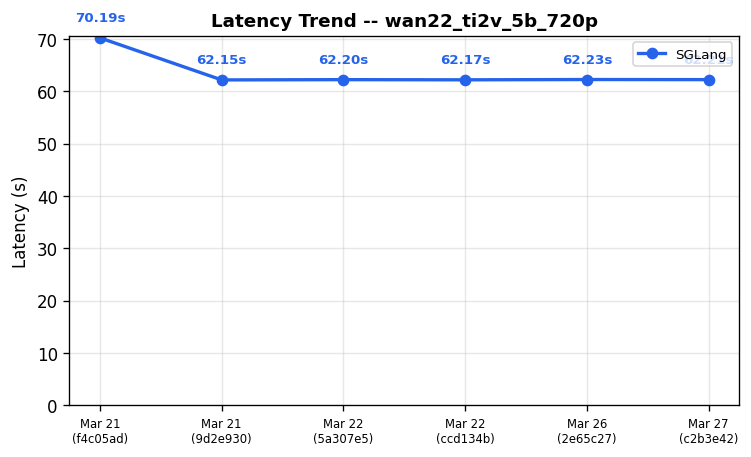
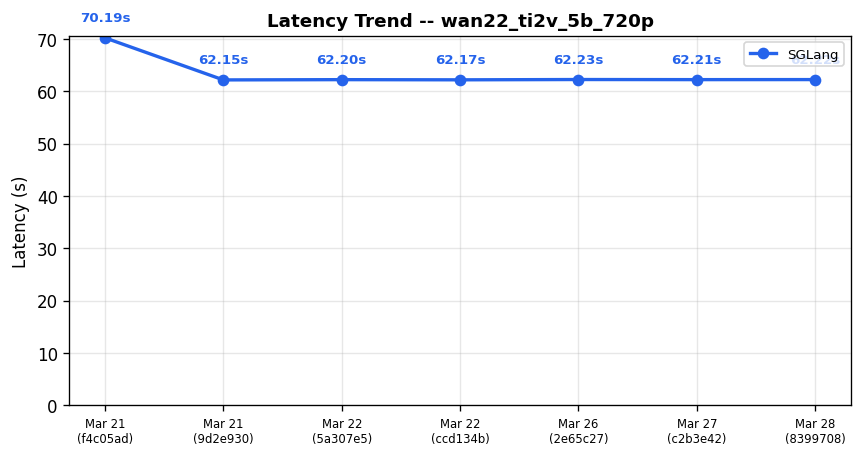
Diffusion comparison results for run 23673470172 (#528)

diff --git a/diffusion-comparisons/dashboard.md b/diffusion-comparisons/dashboard.md
@@ -1,32 +1,38 @@
 # Diffusion Cross-Framework Performance Dashboard
 
-*Generated: Mar 27 | Commit: `c2b3e42`*
+*Generated: Mar 28 | Commit: `8399708`*
+
+> [!WARNING]
+> **Performance Regression Detected**
+>
+> - **qwen_image_edit_2511** (sglang): 29.64s -> 31.67s (+6.9%)
+
 
 ## Cross-Framework Performance Comparison
 
 | Model | Risk | sglang (s) |
 |-------|------|---------|
-| FLUX.1-dev | ✅ | **6.70** |
-| FLUX.2-dev | ✅ | **22.94** |
-| Qwen-Image-2512 | ✅ | **13.18** |
-| Qwen-Image-Edit-2511 | ✅ | **29.64** |
+| FLUX.1-dev | ✅ | **6.68** |
+| FLUX.2-dev | ✅ | **22.76** |
+| Qwen-Image-2512 | ✅ | **13.71** |
+| Qwen-Image-Edit-2511 | ⚠ | **31.67** |
 | Z-Image-Turbo | ✅ | **0.93** |
-| Wan2.2-T2V-A14B-Diffusers | ✅ | **16.11** |
-| Wan2.2-TI2V-5B-Diffusers | ✅ | **62.21** |
+| Wan2.2-T2V-A14B-Diffusers | ✅ | **16.27** |
+| Wan2.2-TI2V-5B-Diffusers | ✅ | **62.22** |
 | Wan2.2-I2V-A14B-Diffusers | ✅ | **10.04** |
 
 ## SGLang Performance Trend (Last 7 Runs)
 
 | Date | Commit | flux1_dev_t2i_1024 (s) | flux2_dev_t2i_1024 (s) | qwen_image_2512_t2i_1024 (s) | qwen_image_edit_2511 (s) | zimage_turbo_t2i_1024 (s) | wan22_t2v_a14b_720p (s) | wan22_ti2v_5b_720p (s) | wan22_i2v_a14b_720p (s) | Trend |
 |------|--------|---------|---------|---------|---------|---------|---------|---------|---------|-------|
+| Mar 28 | `8399708` | 6.68 | 22.76 | 13.71 | 31.67 | 0.93 | 16.27 | 62.22 | 10.04 | :left_right_arrow:  :left_right_arrow:  :arrow_up:  :arrow_up:  :left_right_arrow:  :left_right_arrow:  :left_right_arrow:  :left_right_arrow: |
 | Mar 27 | `c2b3e42` | 6.70 | 22.94 | 13.18 | 29.64 | 0.93 | 16.11 | 62.21 | 10.04 | :left_right_arrow:  :left_right_arrow:  :left_right_arrow:  :left_right_arrow:  :left_right_arrow:  :left_right_arrow:  :left_right_arrow:  :left_right_arrow: |
 | Mar 26 | `2e65c27` | 6.77 | 22.75 | 13.31 | 29.84 | 0.94 | 16.06 | 62.23 | 10.04 | :left_right_arrow:  :left_right_arrow:  :arrow_down:  :left_right_arrow:  :arrow_down:  :left_right_arrow:  :left_right_arrow:  :left_right_arrow: |
 | Mar 22 | `ccd134b` | 6.69 | 22.58 | 13.58 | 29.97 | 1.96 | 16.10 | 62.17 | 10.04 | :left_right_arrow:  :left_right_arrow:  :arrow_down:  :left_right_arrow:  :arrow_down:  :left_right_arrow:  :left_right_arrow:  :left_right_arrow: |
 | Mar 22 | `5a307e5` | 6.70 | 22.62 | 14.09 | 30.14 | 2.01 | 16.13 | 62.20 | 10.04 | :left_right_arrow:  :left_right_arrow:  :arrow_up:  :left_right_arrow:  :arrow_up:  :left_right_arrow:  :left_right_arrow:  :arrow_up: |
 | Mar 21 | `9d2e930` | 6.77 | 22.77 | 13.71 | 30.39 | 1.93 | 16.14 | 62.15 | 9.03 | :arrow_down:  :arrow_down:  :arrow_down:  :arrow_down:  :arrow_down:  :arrow_down:  :arrow_down:  :arrow_down: |
 | Mar 21 | `f4c05ad` | 7.25 | 23.89 | 14.66 | 33.42 | 2.04 | 19.25 | 70.19 | 10.04 | :left_right_arrow:  :left_right_arrow:  :arrow_down:  :left_right_arrow:  :arrow_down:    :left_right_arrow: |
-| Mar 20 | `57f358a` | 7.13 | 24.05 | 17.18 | 32.91 | 2.33 | N/A | N/A | 10.04 | :left_right_arrow:   :left_right_arrow:  :left_right_arrow:  :left_right_arrow:    |
-| Mar 20 | `0187c78` | 7.12 | N/A | 17.39 | 32.87 | 2.30 | N/A | N/A | N/A | -- |
+| Mar 20 | `57f358a` | 7.13 | 24.05 | 17.18 | 32.91 | 2.33 | N/A | N/A | 10.04 | -- |
 
 ### Latency Trend: flux1_dev_t2i_1024
 
@@ -66,6 +72,15 @@
 ### Latency Trend: wan22_i2v_a14b_720p
 
 ![Latency Trend wan22_i2v_a14b_720p](https://raw.githubusercontent.com/sglang-bot/sglang-ci-data/main/diffusion-comparisons/charts/latency_wan22_i2v_a14b_720p.png)
+
+
+> [!CAUTION]
+> **Action Required — Performance Alert**
+>
+> The following cases need attention:
+> - qwen_image_edit_2511: SGLang regression +6.2% vs 3-run avg (31.67s vs 29.82s)
+>
+> cc @mickqian @bbuf @yhyang201
 
 
 ---
